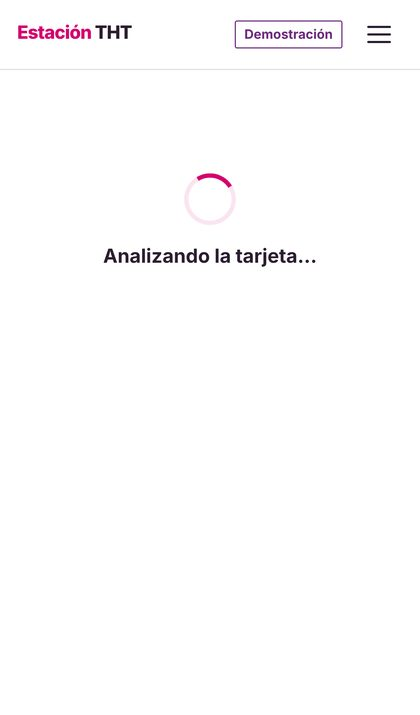
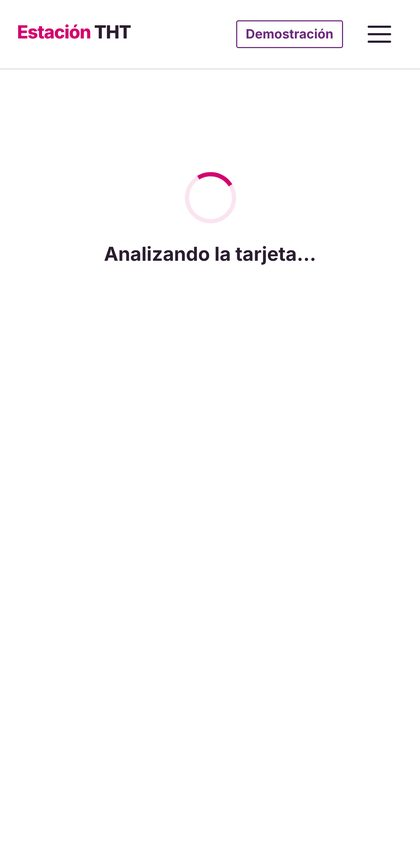
«La estación en uso»: marco de teléfono en CSS y capturas con María José de la Rosa
Marco inspirado en la referencia de Fortino (borde metálico, bisel, isla dinámica y
botones), dibujado en CSS para no publicar imágenes de terceros. Capturas regeneradas
en proporción de iPhone 15 con María José de la Rosa como inspectora.

diff --git a/prototipo/src/inspeccion_tht/static/estilo.css b/prototipo/src/inspeccion_tht/static/estilo.css
@@ -480,8 +480,18 @@ body.con-cajon { overflow: hidden; }
 .uso { list-style: none; margin: var(--e6) 0 var(--e3); padding: 0; display: grid; grid-template-columns: repeat(6, minmax(0, 1fr)); gap: var(--e4); }
 .uso li { display: flex; flex-direction: column; gap: var(--e1); font-size: 15px; color: var(--tinta-2); }
 .uso b { color: var(--tinta); font-size: 16px; margin-top: var(--e3); }
-.telefono { margin: 0; border: 6px solid var(--tinta); border-radius: 22px; overflow: hidden; background: var(--blanco); aspect-ratio: 420 / 715; }
-.telefono img { width: 100%; height: 100%; object-fit: cover; object-position: top; display: block; }
+/* Marco de teléfono dibujado en CSS (borde metálico, bisel, isla y botones), sin imágenes de terceros */
+.telefono { --borde: #b7abc6; position: relative; margin: 0 4px; padding: 3.2%; border-radius: 15% / 7.2%;
+  background: linear-gradient(135deg, #d8cfe3, var(--borde) 45%, #9e91b0); box-shadow: inset 0 0 0 1px rgba(43, 29, 48, 0.25); }
+.telefono::before, .telefono::after { content: ""; position: absolute; width: 3px; background: var(--borde); border-radius: 2px; }
+.telefono::before { left: -3px; top: 18%; height: 6%; box-shadow: 0 9cqh 0 var(--borde), 0 17cqh 0 var(--borde); }
+.telefono::after { right: -3px; top: 24%; height: 10%; }
+.telefono { container-type: size; aspect-ratio: 9 / 19.4; }
+.pantalla { position: relative; height: 100%; background: #0b0b0d; padding: 2.4%; border-radius: 12.5% / 6%; }
+.pantalla::before { content: ""; position: absolute; top: 3.3%; left: 50%; transform: translateX(-50%); width: 30%; height: 3.2%;
+  background: #0b0b0d; border-radius: 999px; z-index: 1; }
+.pantalla img { width: 100%; height: 100%; object-fit: cover; object-position: top; display: block; border-radius: 10.5% / 4.9%;
+  background: var(--blanco); padding-top: 9.5%; }
 @media (max-width: 1100px) { .uso { grid-template-columns: repeat(3, minmax(0, 1fr)); } }
 @media (max-width: 860px) {
   .uso { display: flex; overflow-x: auto; scroll-snap-type: x mandatory; gap: var(--e4); padding-bottom: var(--e3); }

diff --git a/prototipo/src/inspeccion_tht/templates/landing.html b/prototipo/src/inspeccion_tht/templates/landing.html
@@ -73,7 +73,7 @@
       (5, "Revisa solo las marcadas", "Confirma la sugerencia o la corrige con un toque."),
       (6, "Cierra y sigue", "Resumen de la tarjeta y a la siguiente. Cada decisión queda registrada.")] %}
     <li>
-      <figure class="telefono"><img src="{{ url_for('static', filename='capturas/uso-%d.jpg' % n) }}" alt="Paso {{ n }}: {{ titulo }}" loading="lazy" width="420" height="715"></figure>
+      <figure class="telefono"><div class="pantalla"><img src="{{ url_for('static', filename='capturas/uso-%d.jpg' % n) }}" alt="Paso {{ n }}: {{ titulo }}" loading="lazy" width="420" height="855"></div></figure>
       <b>{{ n }}. {{ titulo }}</b>
       <span>{{ texto }}</span>
     </li>
